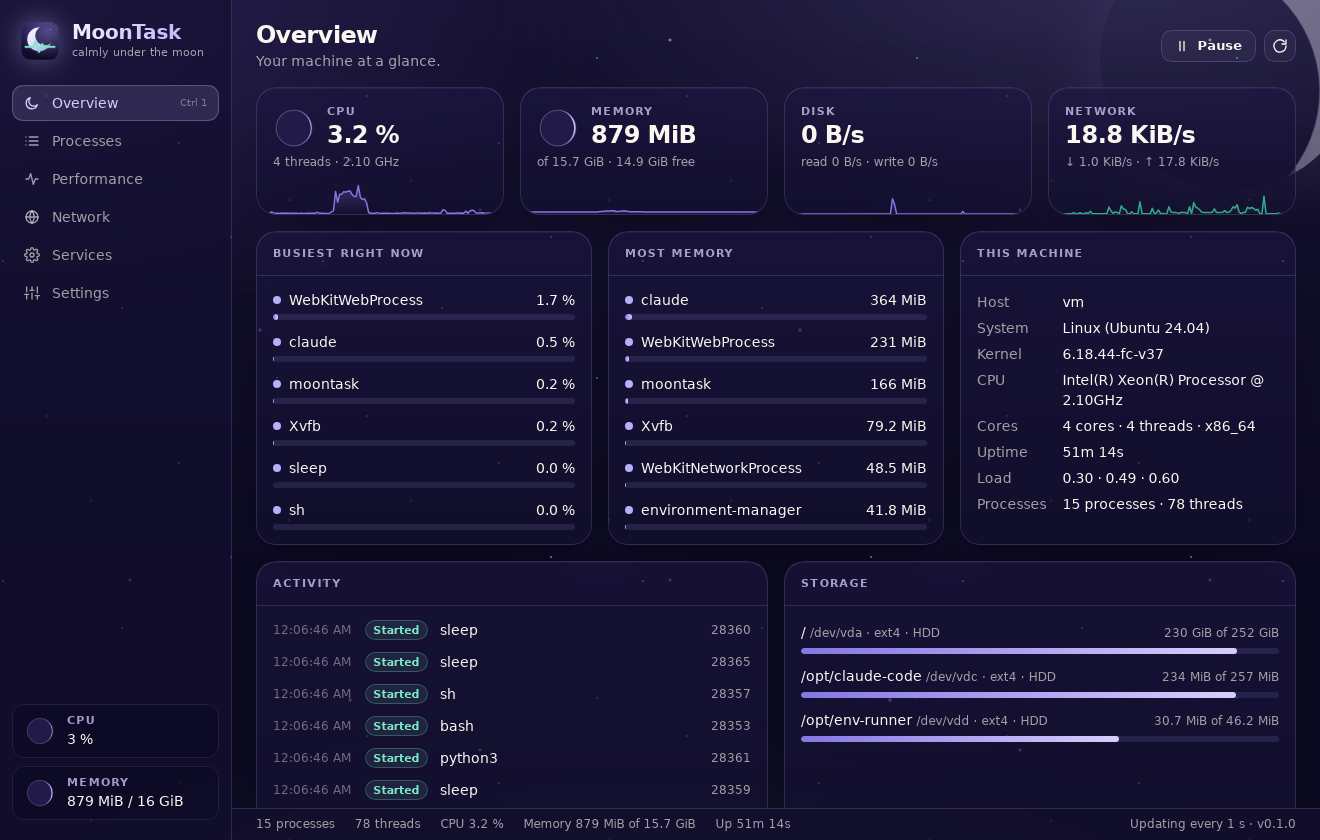
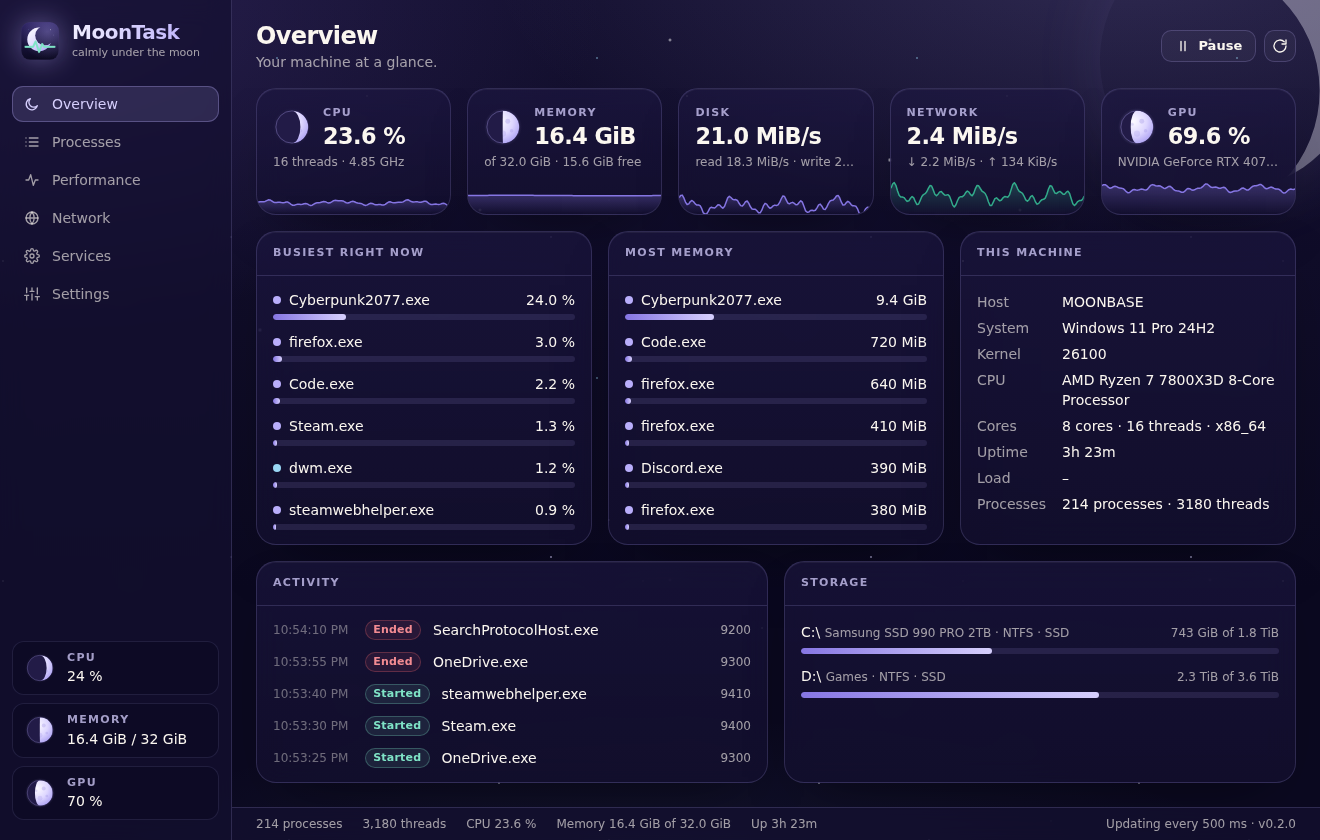
Refresh the README screenshots and tidy the compact process list
- New screenshots of 0.2.0: overview with the GPU tile, the process tree
  with its GPU column and detail panel, and the GPU performance view
  (the real interface with sample data of a Windows gaming PC; marked
  as such under the images)
- With the detail panel open, the process list also hides the Status
  column (the panel header shows it), so names aren't cut to a few
  letters now that the GPU column takes space
- The detail panel's CPU/GPU/Memory tiles put the value under the label,
  so "9.4 GiB" no longer wraps when all three are shown

Claude-Session: https://claude.ai/code/session_01BeJhPzCrMkk6o5AxqSheiM

diff --git a/src/components/ProcessDetail.tsx b/src/components/ProcessDetail.tsx
@@ -447,11 +447,9 @@ function MiniStat({
   children: ReactNode;
 }) {
   return (
-    <div className="mt-inset flex flex-col gap-1 overflow-hidden px-3 pt-2">
-      <div className="flex items-baseline justify-between">
-        <span className="text-xs text-(--mt-text-muted)">{label}</span>
-        <span className="text-sm font-semibold tabular-nums">{value}</span>
-      </div>
+    <div className="mt-inset flex min-w-0 flex-col overflow-hidden px-3 pt-2">
+      <span className="text-xs text-(--mt-text-muted)">{label}</span>
+      <span className="truncate text-sm font-semibold whitespace-nowrap tabular-nums">{value}</span>
       <div className="-mx-3">{children}</div>
     </div>
   );

diff --git a/src/components/ProcessTable.tsx b/src/components/ProcessTable.tsx
@@ -49,7 +49,7 @@ const COLUMNS: Column[] = [
     title: "Read + write per second",
     secondary: true,
   },
-  { key: "status", label: "Status", width: "6.5rem" },
+  { key: "status", label: "Status", width: "6.5rem", secondary: true },
 ];
 
 export interface ProcessTableProps {
@@ -337,9 +337,11 @@ function Row({
           </td>
         </>
       )}
-      <td>
-        <StateText state={p.status} />
-      </td>
+      {!compact && (
+        <td>
+          <StateText state={p.status} />
+        </td>
+      )}
     </tr>
   );
 }

diff --git a/README.md b/README.md
@@ -8,7 +8,11 @@ better organized and in the same night-sky design as [MoonDisk](https://github.c
 
 ![MoonTask overview](docs/screenshots/overview.png)
 
-![The process tree with the detail panel](docs/screenshots/processes.png)
+![The process tree with its GPU column and the detail panel](docs/screenshots/processes.png)
+
+![GPU load, engines and video memory in the performance view](docs/screenshots/performance-gpu.png)
+
+<sub>Screenshots show the real interface with sample data of a Windows gaming PC.</sub>
 
 ## Features
 
